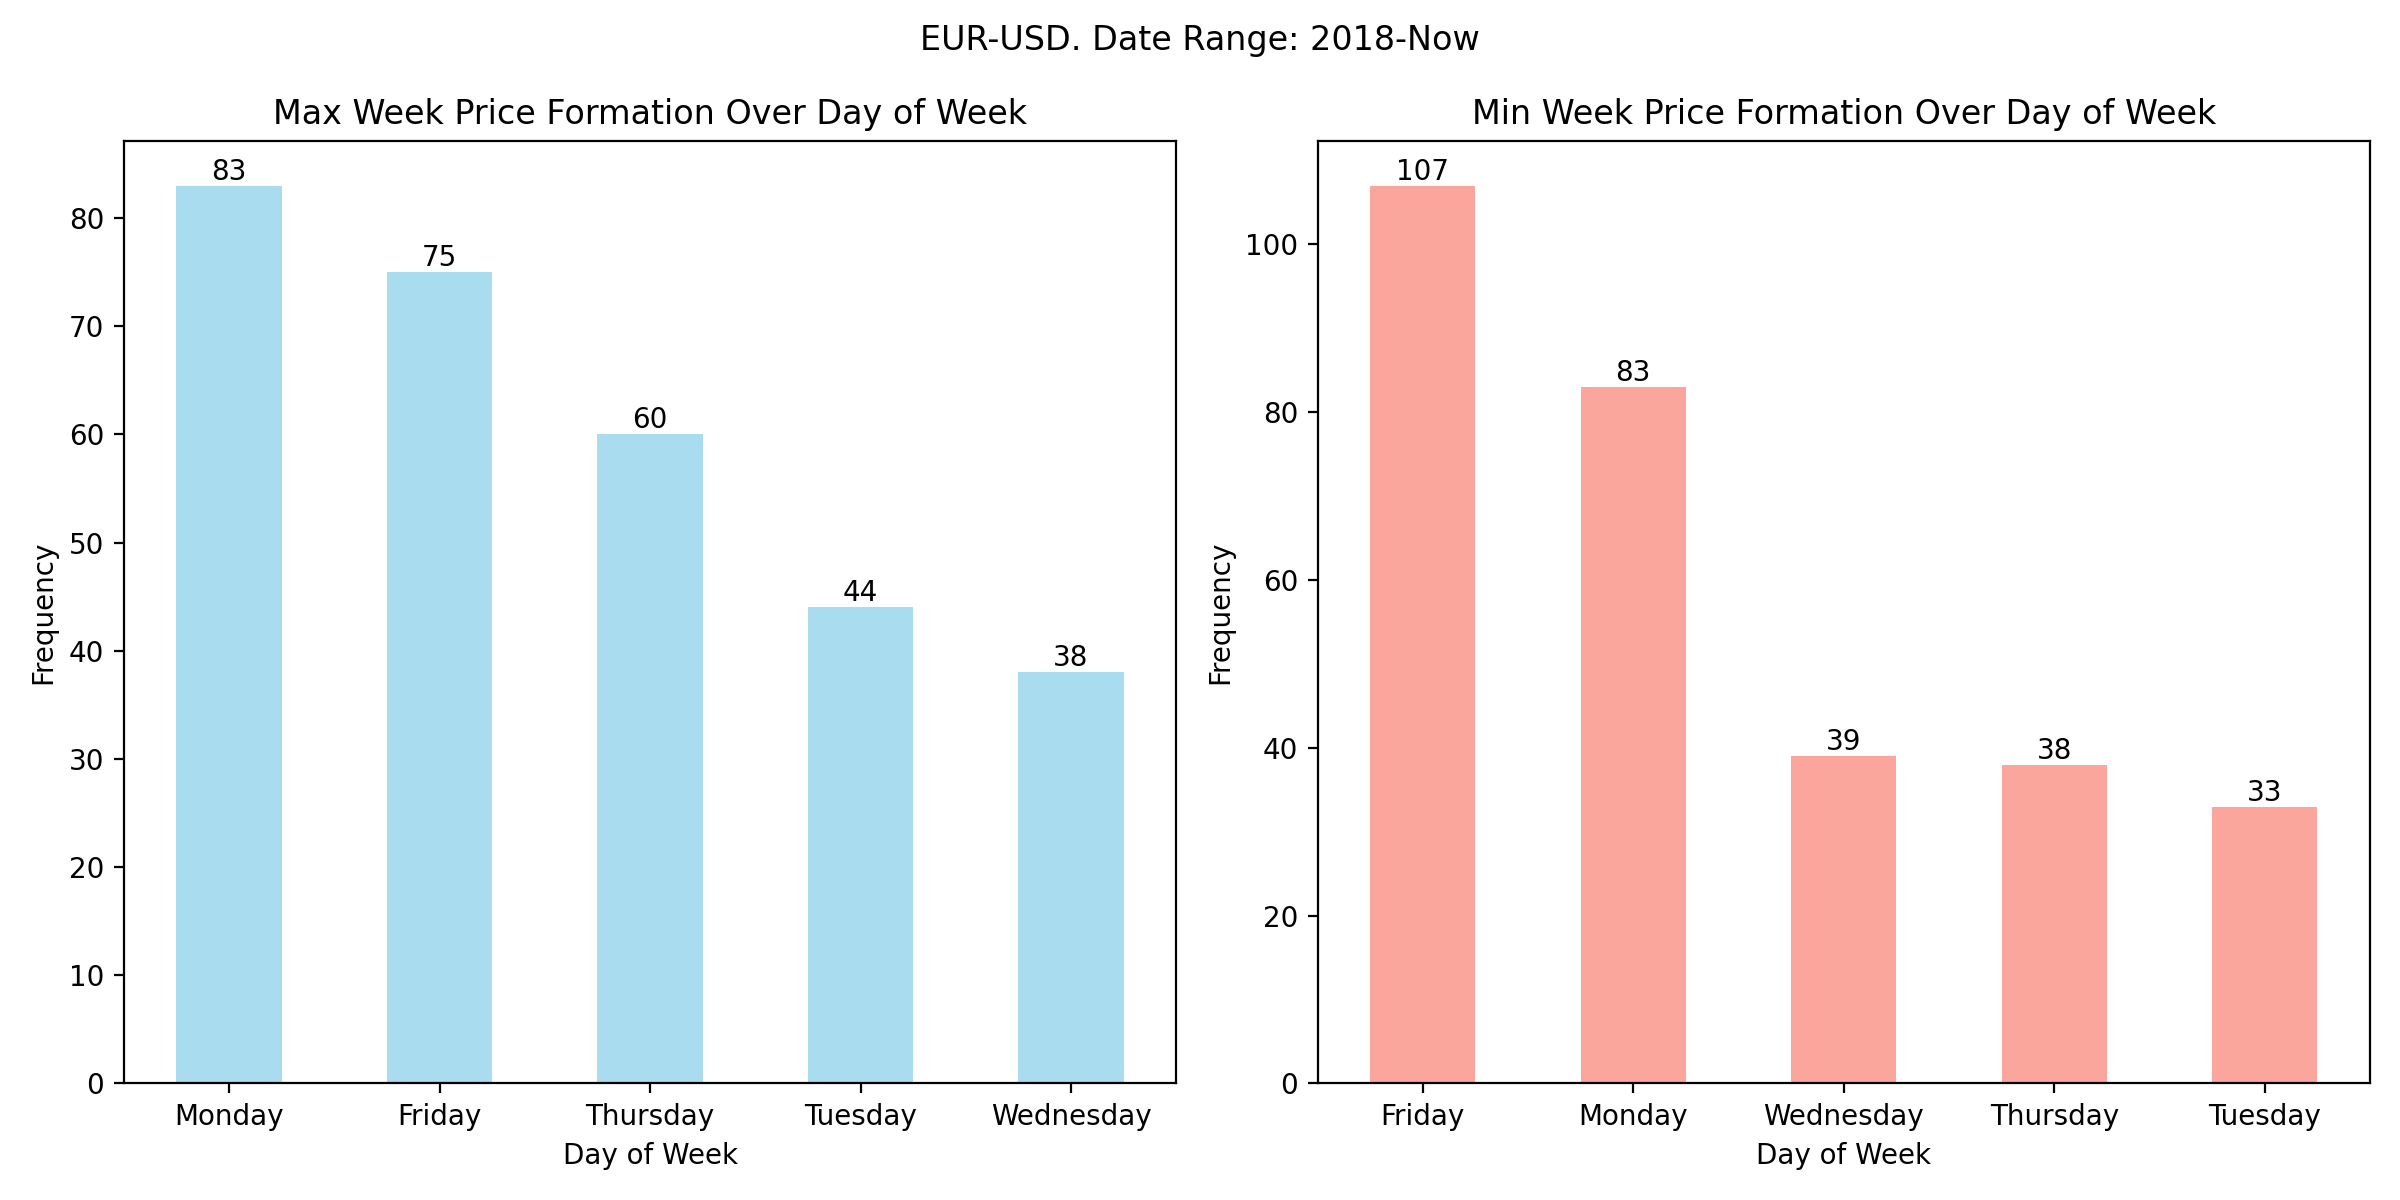
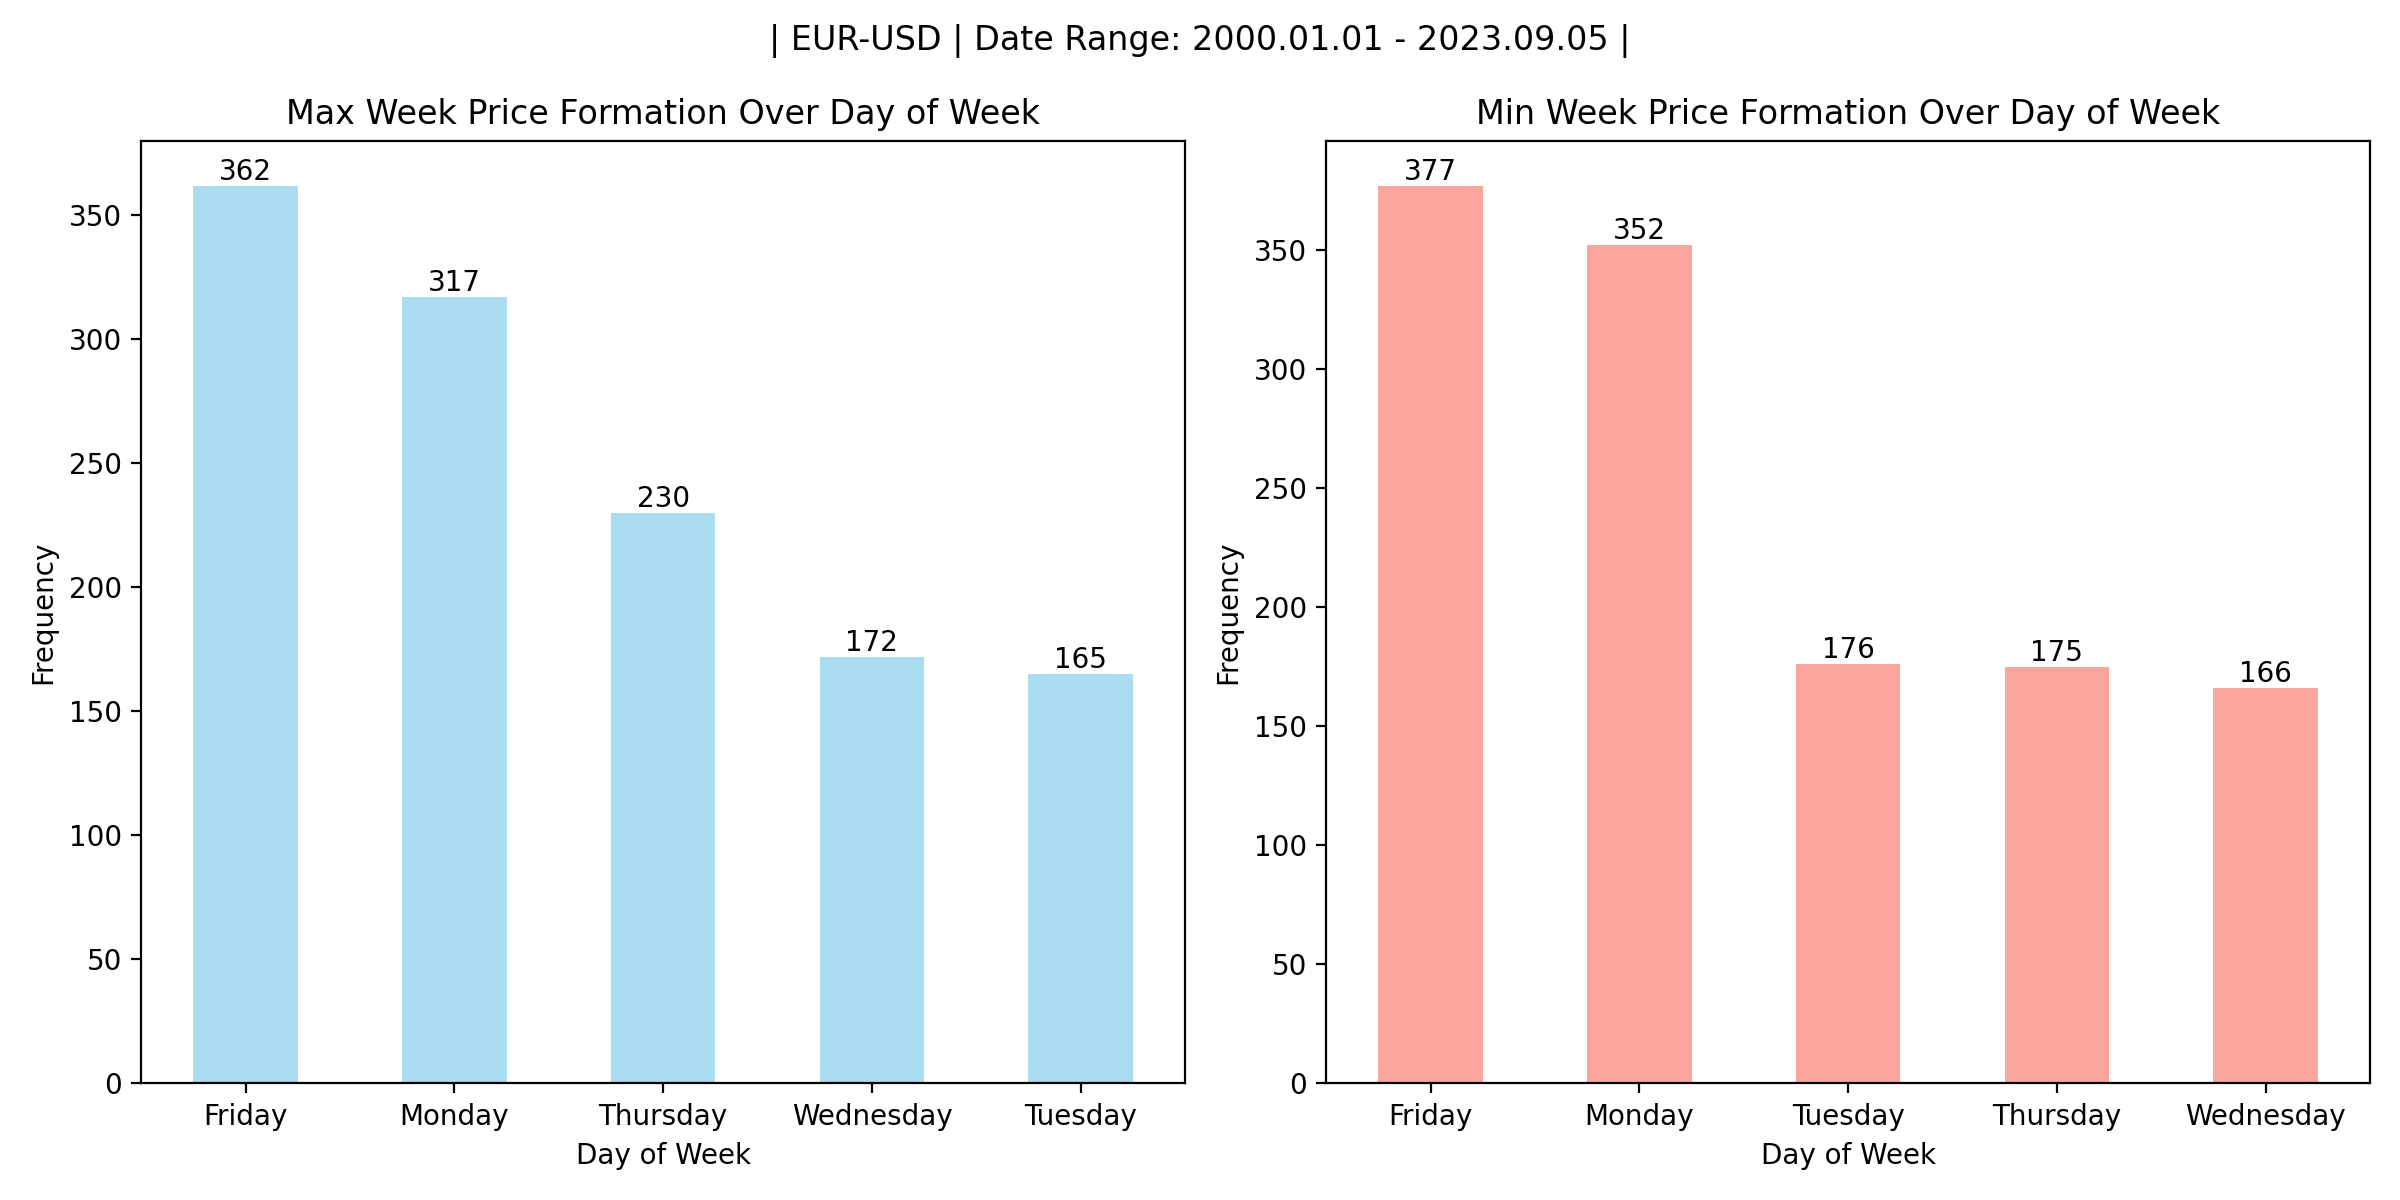
refactored code to use mt5 to get data

diff --git a/quarter_price_day.py b/quarter_price_day.py
@@ -24,27 +24,29 @@ rates_frame.drop(
 
 date_format = "%Y-%m/%d"
 
-rates_frame["week"] = rates_frame["time"].apply(lambda x: x.strftime("%Y-%W"))
+rates_frame["quarter"] = rates_frame["time"].apply(
+    lambda x: f"{x.strftime('%Y')}-{str(x.quarter)}"
+)
 rates_frame["day"] = rates_frame["time"].apply(lambda x: x.strftime("%A"))
 
-week_max_price = rates_frame.groupby("week")["high"].idxmax()
-week_min_price = rates_frame.groupby("week")["low"].idxmin()
+quarter_max_price = rates_frame.groupby("quarter")["high"].idxmax()
+quarter_min_price = rates_frame.groupby("quarter")["low"].idxmin()
 
-week_max_df = rates_frame.loc[
-    week_max_price, ["week", "high", "day"]
+quarter_max_df = rates_frame.loc[
+    quarter_max_price, ["quarter", "high", "day"]
 ].reset_index(drop=True)
-week_min_df = rates_frame.loc[
-    week_min_price, ["week", "low", "day"]
+quarter_min_df = rates_frame.loc[
+    quarter_min_price, ["quarter", "low", "day"]
 ].reset_index(drop=True)
 
-max_day_counts = week_max_df["day"].value_counts()
-min_day_counts = week_min_df["day"].value_counts()
+max_day_counts = quarter_max_df["day"].value_counts()
+min_day_counts = quarter_min_df["day"].value_counts()
 
 fig, (ax1, ax2) = plt.subplots(1, 2, figsize=(12, 6))
 
 # Plot max week price chart
 max_day_counts.plot(kind="bar", color="skyblue", alpha=0.7, ax=ax1)
-ax1.set_title("Max Week Price Formation Over Day of Week")
+ax1.set_title("Max Quarter Price Formation Over Day of Week")
 ax1.set_xlabel("Day of Week")
 ax1.set_ylabel("Frequency")
 ax1.set_xticklabels(ax1.get_xticklabels(), rotation=0)
@@ -55,7 +57,7 @@ for i, v in enumerate(max_day_counts):
 
 # Plot min week price chart
 min_day_counts.plot(kind="bar", color="salmon", alpha=0.7, ax=ax2)
-ax2.set_title("Min Week Price Formation Over Day of Week")
+ax2.set_title("Min Quarter Price Formation Over Day of Week")
 ax2.set_xlabel("Day of Week")
 ax2.set_ylabel("Frequency")
 ax2.set_xticklabels(ax2.get_xticklabels(), rotation=0)
@@ -70,7 +72,4 @@ plt.suptitle(
 )
 
 plt.tight_layout()  # Ensure the subplots don't overlap
-plt.savefig("week_price_day.png", dpi=200)
-# plt.show()
-# print(week_max_df)
-# print(week_min_df)
+plt.savefig("quarter_price_day.png", dpi=200)

diff --git a/month_price_day.py b/month_price_day.py
@@ -24,27 +24,27 @@ rates_frame.drop(
 
 date_format = "%Y-%m/%d"
 
-rates_frame["week"] = rates_frame["time"].apply(lambda x: x.strftime("%Y-%W"))
+rates_frame["month"] = rates_frame["time"].apply(lambda x: x.strftime("%Y-%m"))
 rates_frame["day"] = rates_frame["time"].apply(lambda x: x.strftime("%A"))
 
-week_max_price = rates_frame.groupby("week")["high"].idxmax()
-week_min_price = rates_frame.groupby("week")["low"].idxmin()
+month_max_price = rates_frame.groupby("month")["high"].idxmax()
+month_min_price = rates_frame.groupby("month")["low"].idxmin()
 
-week_max_df = rates_frame.loc[
-    week_max_price, ["week", "high", "day"]
+month_max_df = rates_frame.loc[
+    month_max_price, ["month", "high", "day"]
 ].reset_index(drop=True)
-week_min_df = rates_frame.loc[
-    week_min_price, ["week", "low", "day"]
+month_min_df = rates_frame.loc[
+    month_min_price, ["month", "low", "day"]
 ].reset_index(drop=True)
 
-max_day_counts = week_max_df["day"].value_counts()
-min_day_counts = week_min_df["day"].value_counts()
+max_day_counts = month_max_df["day"].value_counts()
+min_day_counts = month_min_df["day"].value_counts()
 
 fig, (ax1, ax2) = plt.subplots(1, 2, figsize=(12, 6))
 
 # Plot max week price chart
 max_day_counts.plot(kind="bar", color="skyblue", alpha=0.7, ax=ax1)
-ax1.set_title("Max Week Price Formation Over Day of Week")
+ax1.set_title("Max Month Price Formation Over Day of Week")
 ax1.set_xlabel("Day of Week")
 ax1.set_ylabel("Frequency")
 ax1.set_xticklabels(ax1.get_xticklabels(), rotation=0)
@@ -55,7 +55,7 @@ for i, v in enumerate(max_day_counts):
 
 # Plot min week price chart
 min_day_counts.plot(kind="bar", color="salmon", alpha=0.7, ax=ax2)
-ax2.set_title("Min Week Price Formation Over Day of Week")
+ax2.set_title("Min Month Price Formation Over Day of Week")
 ax2.set_xlabel("Day of Week")
 ax2.set_ylabel("Frequency")
 ax2.set_xticklabels(ax2.get_xticklabels(), rotation=0)
@@ -70,7 +70,4 @@ plt.suptitle(
 )
 
 plt.tight_layout()  # Ensure the subplots don't overlap
-plt.savefig("week_price_day.png", dpi=200)
-# plt.show()
-# print(week_max_df)
-# print(week_min_df)
+plt.savefig("month_price_day.png", dpi=200)
